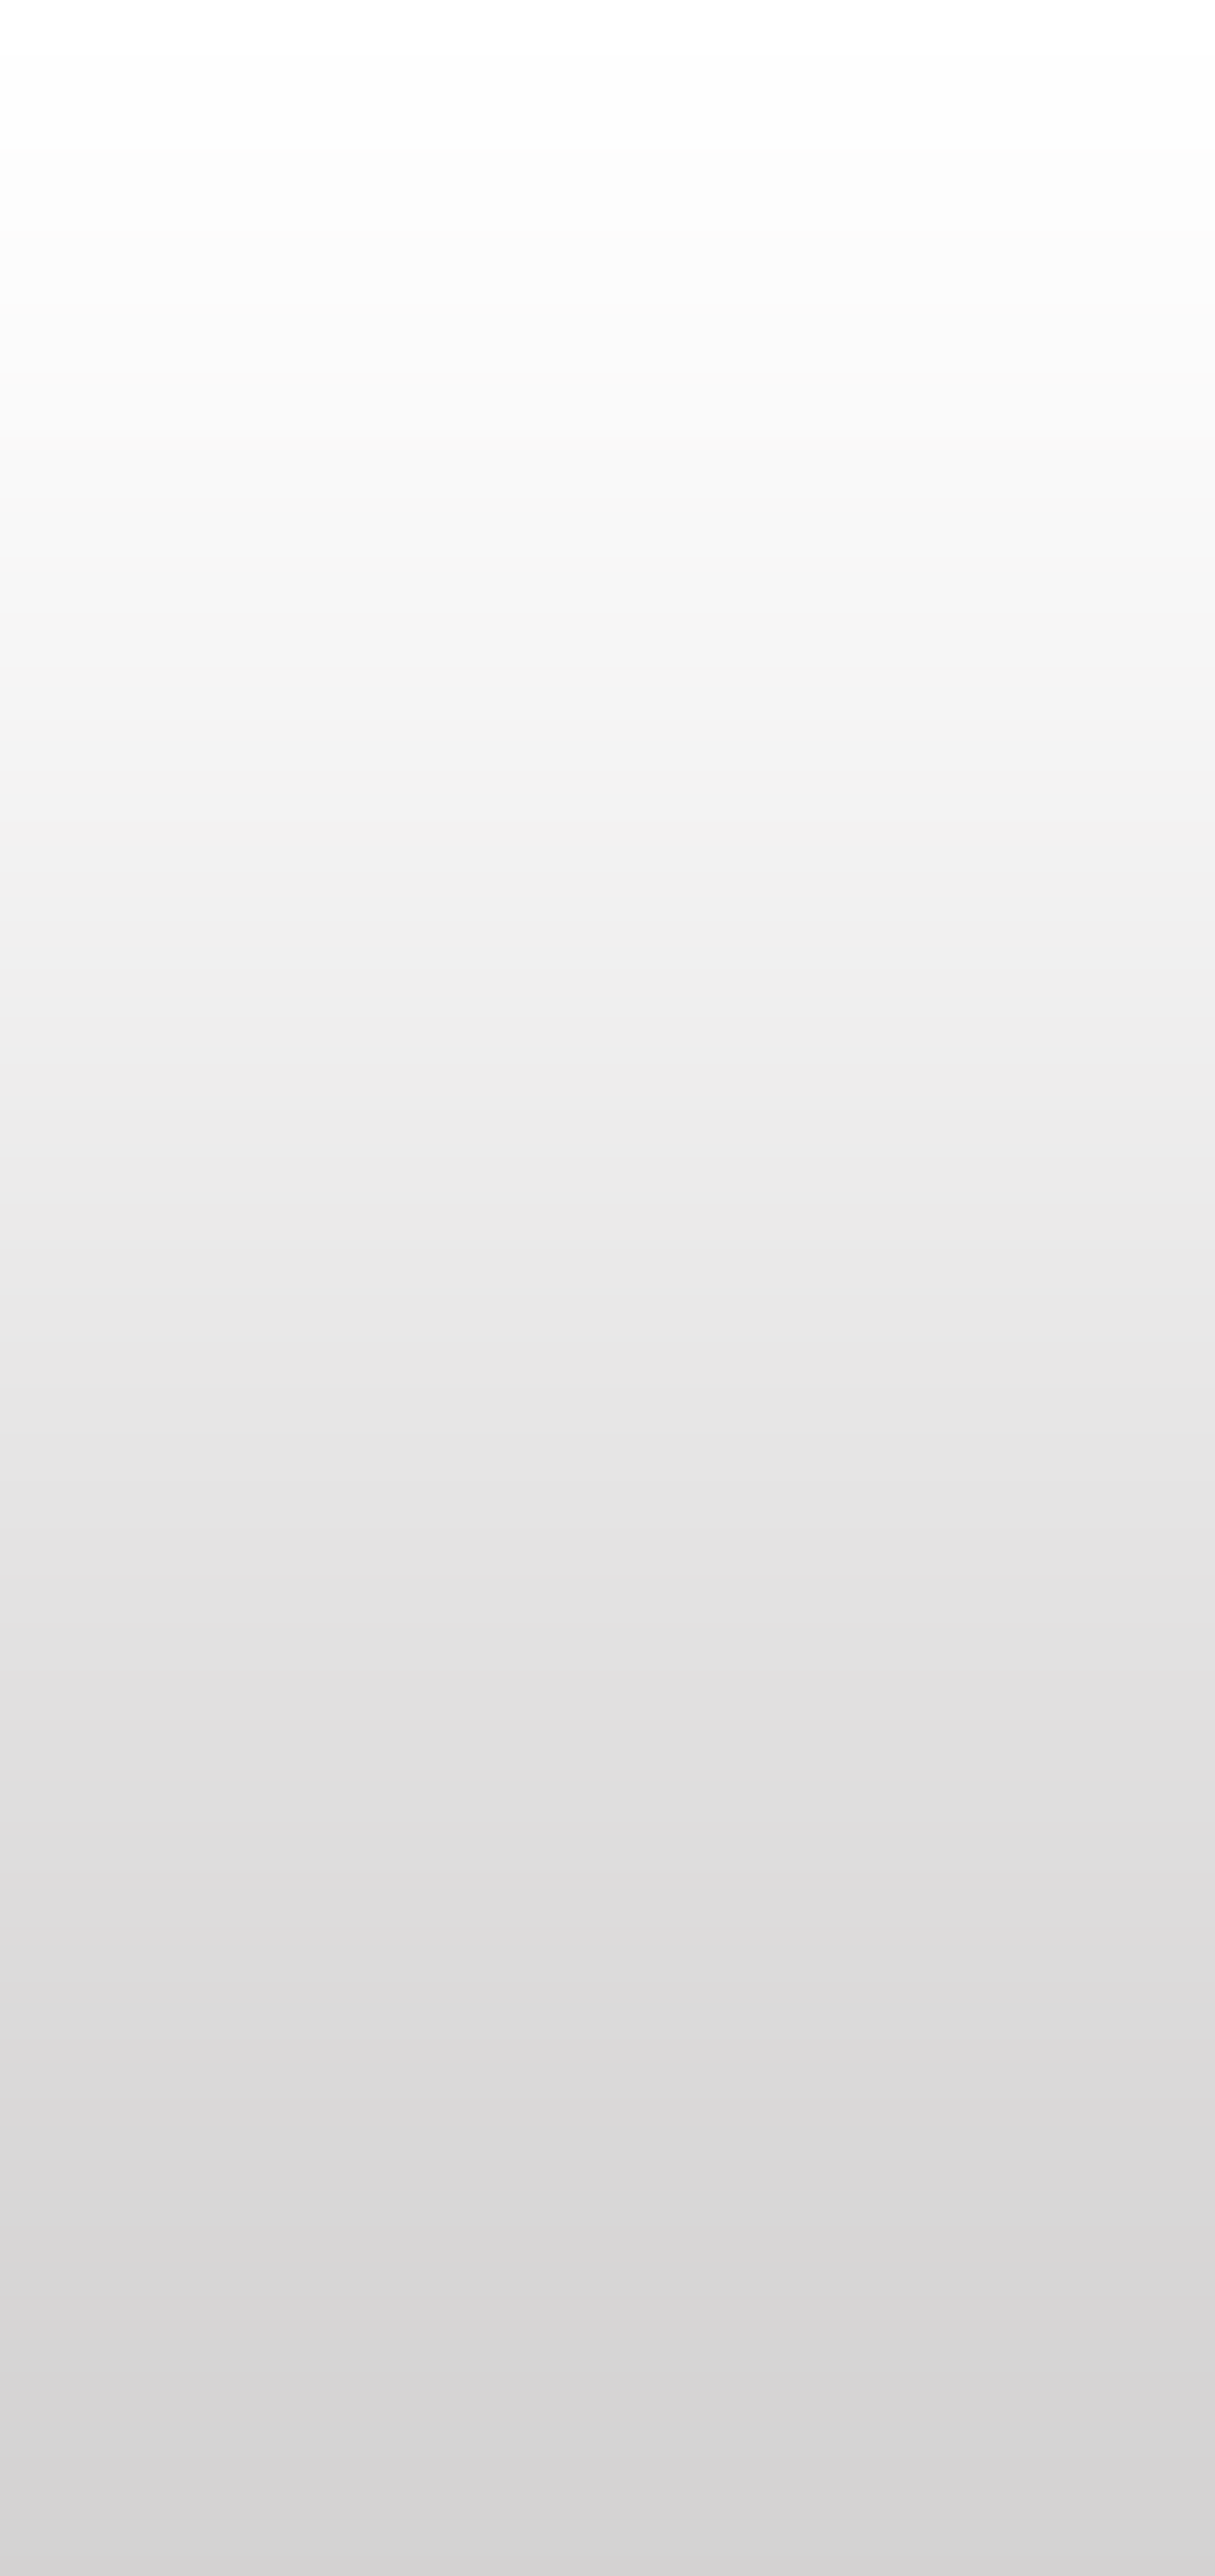
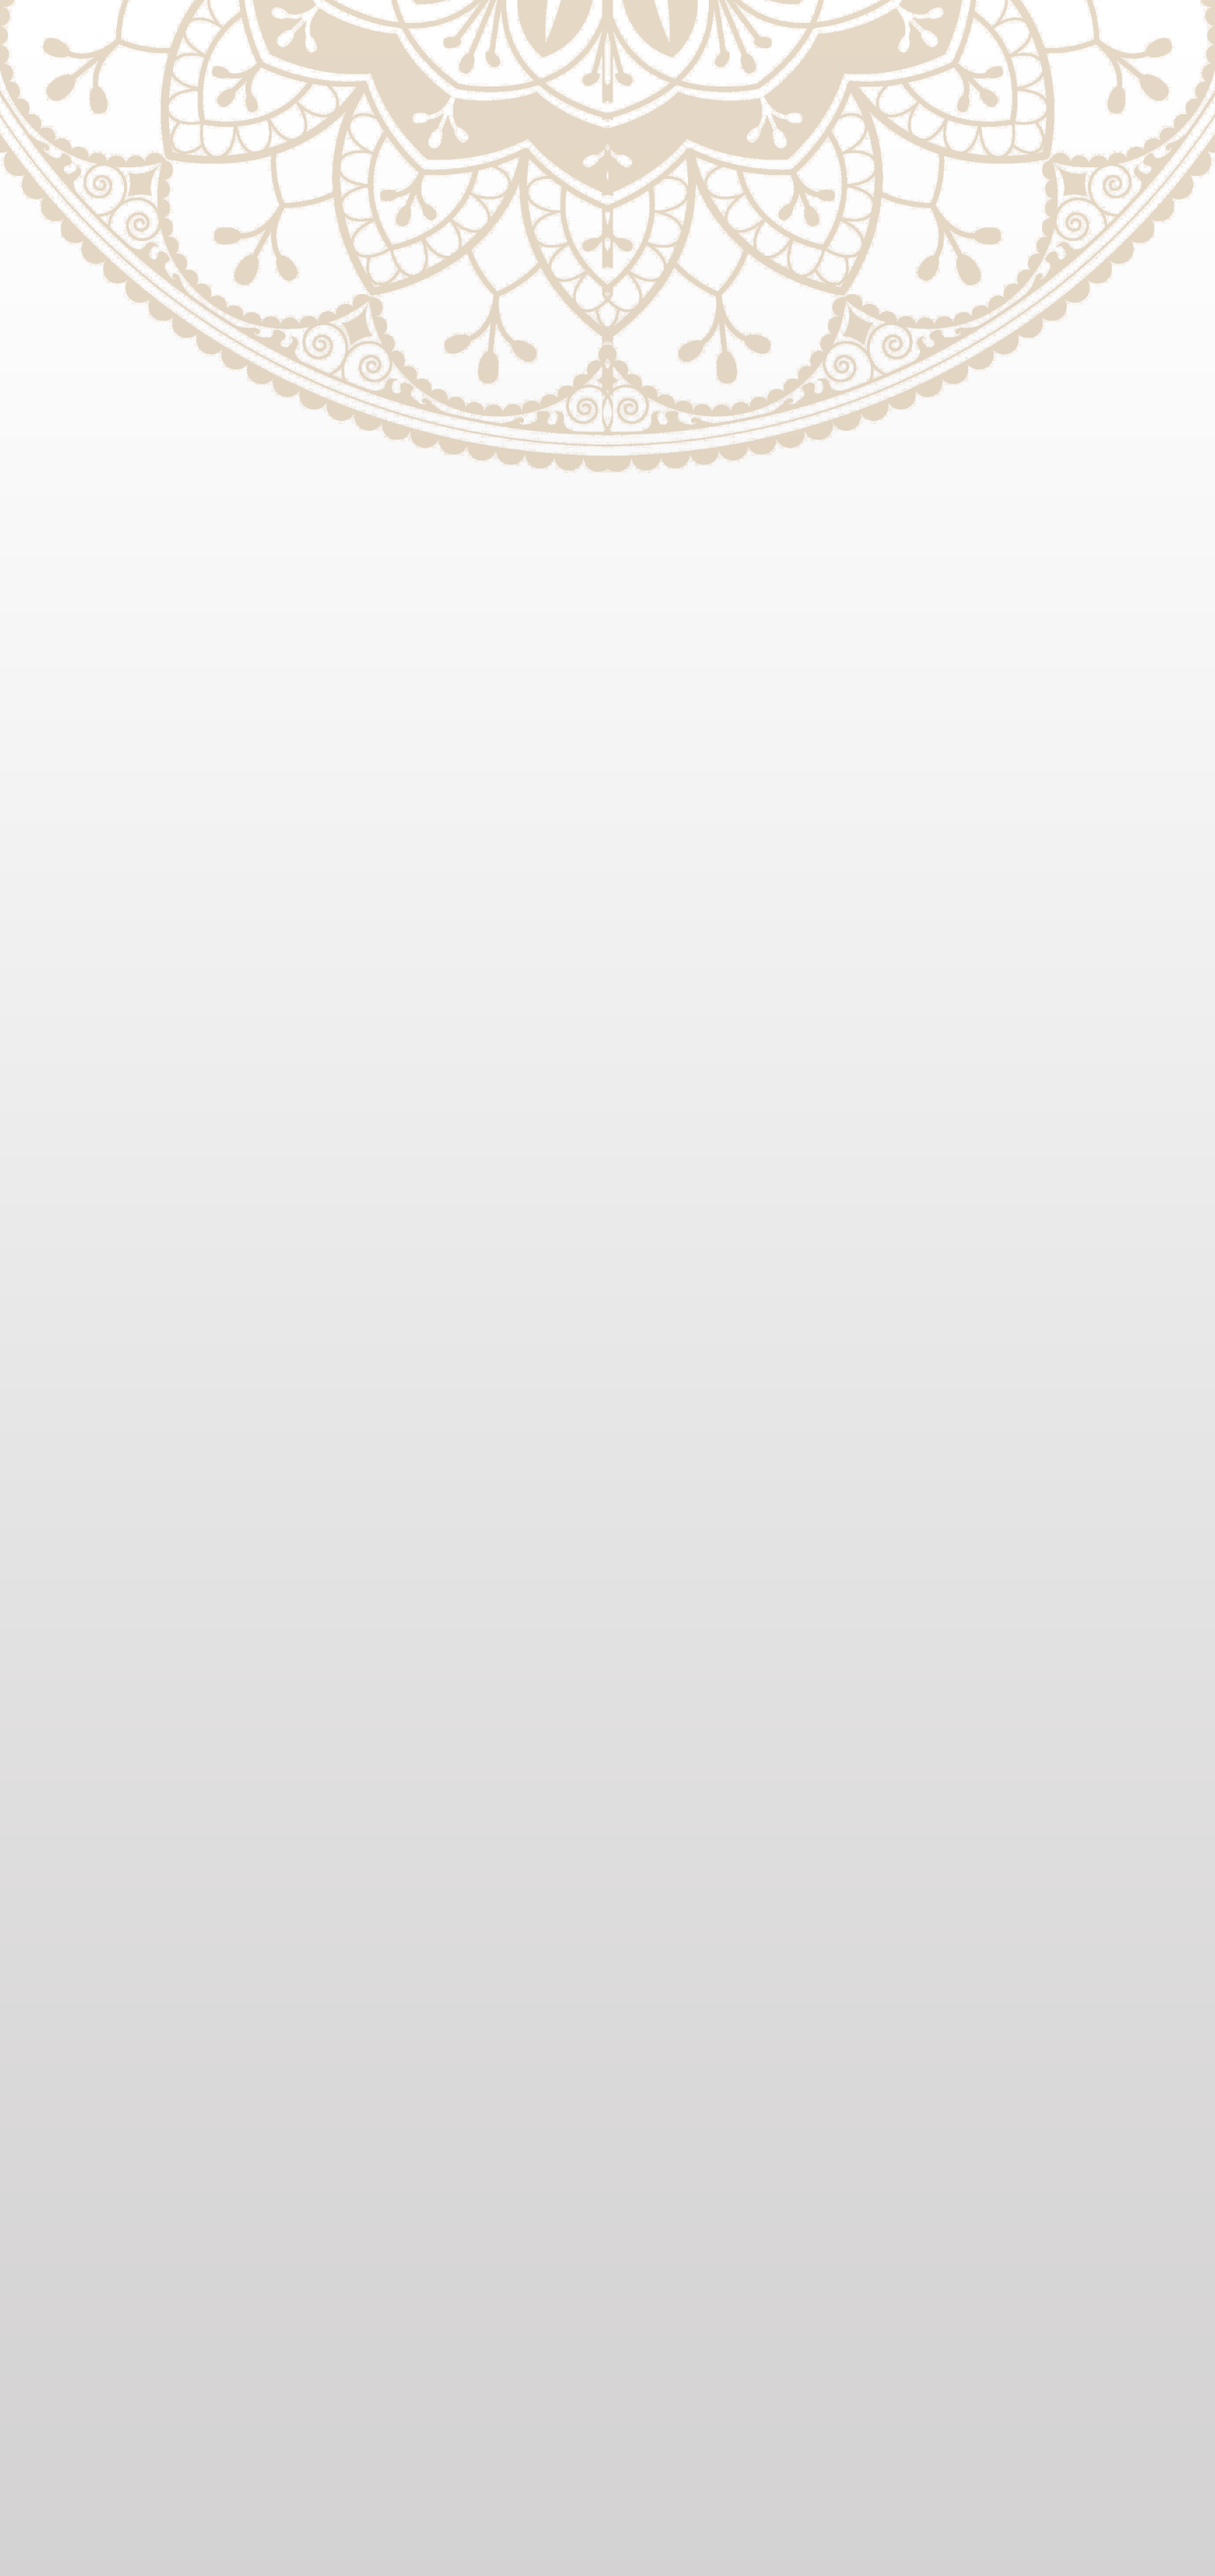
Added Dark theme
Added basis for the dark theme (left with handling the case of choosing asset based on the theme mode)

Changed region(s): [[0.0, 0.0, 1.0, 0.1856]]

diff --git a/lib/my_theme.dart b/lib/my_theme.dart
@@ -1,21 +1,20 @@
-
-
-
-
 import 'package:flutter/material.dart';
 
 class MyThemeData{
+  static const darkThemeYellowColor = Color(0xFFFACC1D);
+  static const whiteThemeBlackColor = Color(0xFF242424);
 
   static final lightTheme =  ThemeData(
       scaffoldBackgroundColor: Colors.transparent,
-      primaryColor: Colors.black,
-      backgroundColor: Colors.white,
-      accentColor: Color(0x80141A2E),
+      primaryColor: Colors.white,
+      backgroundColor: Colors.black,
+      accentColor: Color(0xFFF8F8F8),
+      brightness: Brightness.light,
 
       textTheme: const TextTheme(
-        bodyText1: TextStyle(fontSize: 14.0, color: darkThemeYellowColor),
-        bodyText2: TextStyle(fontSize: 14.0, color: Colors.white),
-        button: TextStyle(fontSize: 26.0, color: Colors.black),
+        bodyText1: TextStyle(fontSize: 14.0, color: whiteThemeBlackColor),
+        bodyText2: TextStyle(fontSize: 14.0, color: Colors.black),
+        button: TextStyle(fontSize: 26.0, color: Colors.white),
       ),
 
       appBarTheme: AppBarTheme(
@@ -24,11 +23,11 @@ class MyThemeData{
 
       elevatedButtonTheme: ElevatedButtonThemeData(
         style: ButtonStyle(
-          backgroundColor: MaterialStateProperty.all<Color>(darkThemeYellowColor),
+          backgroundColor: MaterialStateProperty.all<Color>(whiteThemeBlackColor),
           shape: MaterialStateProperty.all<RoundedRectangleBorder>(
               RoundedRectangleBorder(
                   borderRadius: BorderRadius.circular(25.0),
-                  side: BorderSide(color: darkThemeYellowColor)
+                  side: BorderSide(color: whiteThemeBlackColor)
               )
           ),
         ),
@@ -36,20 +35,20 @@ class MyThemeData{
 
       bottomNavigationBarTheme: BottomNavigationBarThemeData(
         unselectedItemColor: Colors.white,
-        selectedItemColor: darkThemeYellowColor,
-        backgroundColor: Color(0xFF141A2E),
+        selectedItemColor: whiteThemeBlackColor,
+        backgroundColor: Color(0xFFB79F9F),
         showSelectedLabels: true,
         showUnselectedLabels: false,
       )
   );
 
 
-  static const darkThemeYellowColor = Color(0xFFFACC1D);
 
   static final darkTheme = ThemeData(
     scaffoldBackgroundColor: Colors.transparent,
     primaryColor: Colors.black,
     backgroundColor: Colors.white,
+    brightness: Brightness.dark,
     accentColor: Color(0x80141A2E),
 
     textTheme: const TextTheme(

diff --git a/lib/sura_content/sura_content.dart b/lib/sura_content/sura_content.dart
@@ -7,6 +7,7 @@ class SuraContent extends StatefulWidget {
 
   static const String routeName = "/sura_content";
 
+
   final args;
   @override
   State<SuraContent> createState() => _SuraContentState();
@@ -40,6 +41,8 @@ class _SuraContentState extends State<SuraContent> {
 
   @override
   Widget build(BuildContext context) {
+    final isDarkMode = Theme.of(context).brightness == Brightness.dark;
+
     return IslamiScaffold(
       bottomNavBarCurrentIndex: -1,
       child: Column(
@@ -68,7 +71,10 @@ class _SuraContentState extends State<SuraContent> {
                               alignment: Alignment.center,
                               child: Text("سورة ${widget.args.suraName}", style: Theme.of(context).textTheme.bodyText1)
                           ),
-                          Image.asset("assets/images/Icon_play.png")
+                          Image.asset(
+                            isDarkMode
+                                ?"assets/images/Icon_play_dark.png"
+                                :"assets/images/Icon_play1.png")
                         ],
                       ),
                     ),

diff --git a/lib/utility/islami_scaffold.dart b/lib/utility/islami_scaffold.dart
@@ -1,13 +1,10 @@
-
-
-
-
 import 'package:flutter/cupertino.dart';
 import 'package:flutter/material.dart';
 
 import '../BottomNavBar.dart';
 
 class IslamiScaffold extends StatelessWidget {
+
   const IslamiScaffold({
     Key? key,
     required this.child,
@@ -19,14 +16,19 @@ class IslamiScaffold extends StatelessWidget {
 
   @override
   Widget build(BuildContext context) {
+    final isDarkMode = Theme.of(context).brightness == Brightness.dark;
+
     return Container(
       decoration: BoxDecoration(
         image: DecorationImage(
-            image: AssetImage("assets/images/bg.png"), fit: BoxFit.fill),
+            image: AssetImage(
+                isDarkMode
+                    ?"assets/images/bg2_dark.png"
+                :"assets/images/bg2.png"), fit: BoxFit.fill),
       ),
       child: Scaffold(
         appBar: AppBar(
-          title: const Text("إسلامي"),
+          title:  Text("إسلامي",),
           centerTitle: true,
           elevation: 0,
         ),

diff --git a/lib/splash.dart b/lib/splash.dart
@@ -19,6 +19,7 @@ class SplashWidget extends StatelessWidget {
 
   @override
   Widget build(BuildContext context) {
+
     return MaterialApp(
 
       themeMode: ThemeMode.dark,
@@ -73,11 +74,15 @@ class _SplashState extends State<Splash> {
   }
 
   Widget build(BuildContext context) {
+    final isDarkMode = Theme.of(context).brightness == Brightness.dark;
+
     return Scaffold(
         body: Stack(
           children: [
             Container(
-              child: Image.asset("assets/images/bg2.png", fit: BoxFit.fill),
+              child: Image.asset(
+                  isDarkMode ?"assets/images/bg_dark.png"
+                  :"assets/images/bg.png", fit: BoxFit.fill),
               width: MediaQuery
                   .of(context)
                   .size

diff --git a/lib/quran/sura_list.dart b/lib/quran/sura_list.dart
@@ -1,7 +1,3 @@
-
-
-
-
 import 'package:flutter/cupertino.dart';
 import 'package:flutter/material.dart';
 import 'package:islami/quran/sura_link.dart';

diff --git a/lib/utility/app_config_provider.dart b/lib/utility/app_config_provider.dart
@@ -1,7 +1,3 @@
-
-
-
-
 import 'package:flutter/material.dart';
 
 class AppConfigProvider extends ChangeNotifier {
